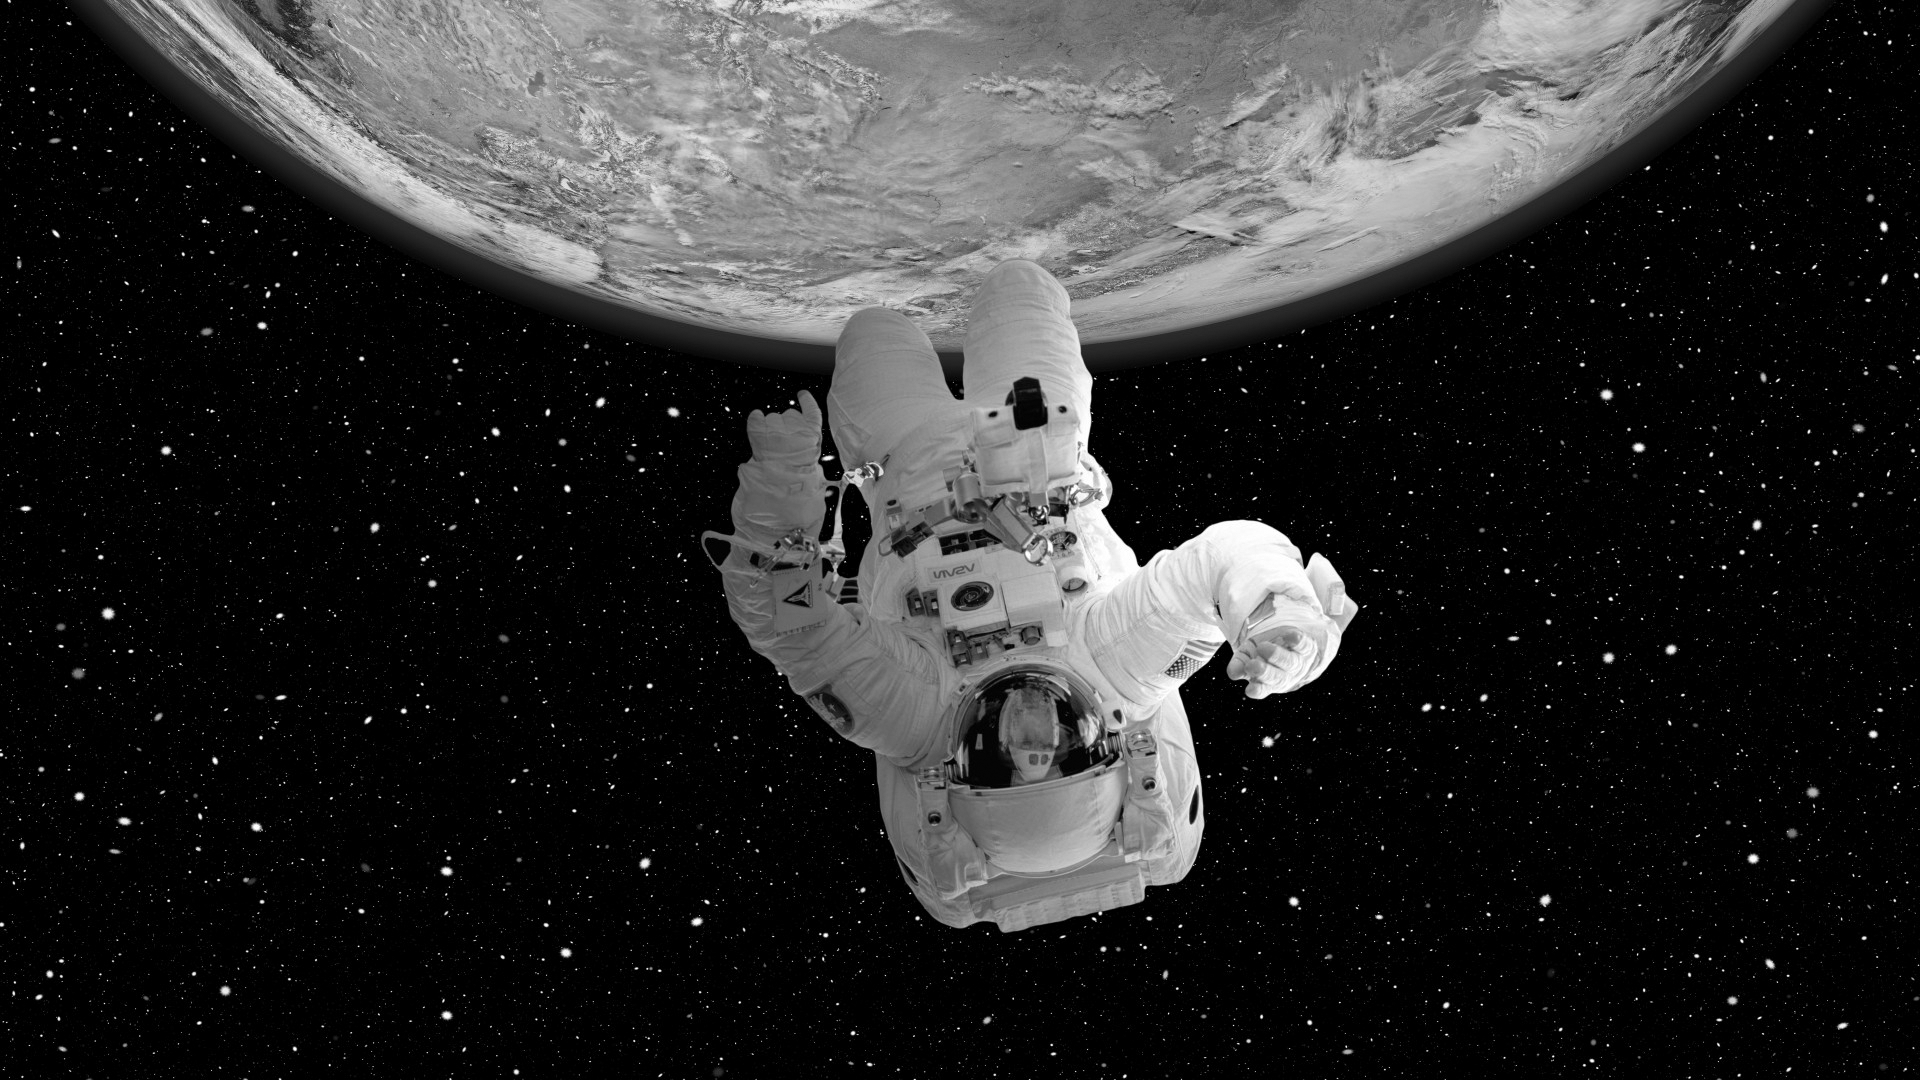
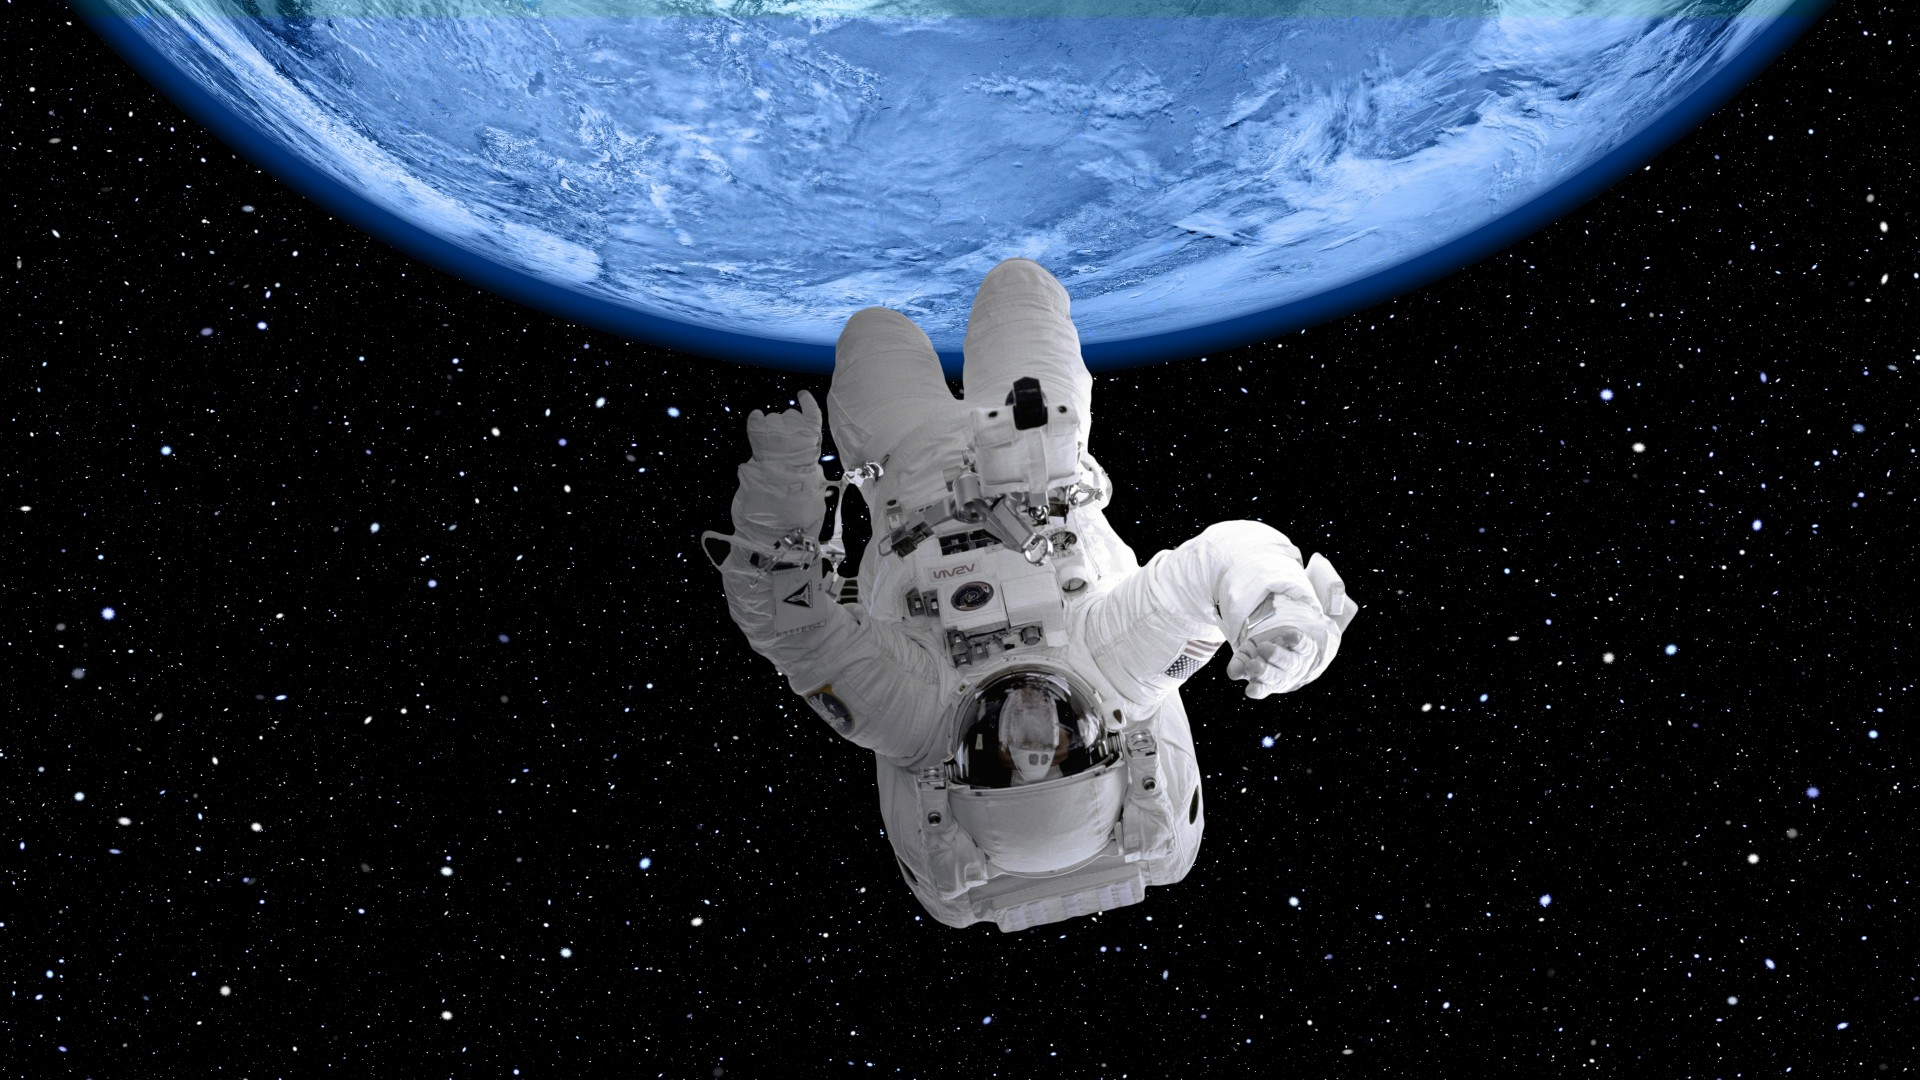
added in code to use numba, but currently it doens't work; some unsupported numpy feature

Changed region(s): [[0.0312, 0.0, 0.9688, 0.3667]]

diff --git a/apply_filter.py b/apply_filter.py
@@ -3,10 +3,12 @@ import sys
 import cv2
 import numpy as np
 from scipy import interpolate
+from numba import jit
 
 NUM_ARGS = 4
 
 # Main entry point for script.
+# @jit
 def main():
     if len(sys.argv) < NUM_ARGS - 1:
       print("usage: python3 apply_filter.py <filter file> <image> <image to write to>")
@@ -18,25 +20,32 @@ def main():
         # Load the filter.
         filter = pickle.load(f)
         # Load the old image.
-        image_old = cv2.imread(image_file, cv2.IMREAD_GRAYSCALE)
+        image_old = cv2.imread(image_file)
+        # Split into color channels.
+        old_channels = [image_old[:,:,c] for c in range(3)]
         # Create the new image.
         image_new = np.ones(image_old.shape, dtype="uint8") * 255
 
-        # Create the interpolator. Here, the x coordinates
+        # Create the interpolators. Here, the x coordinates
         # are a range from 0-width, the y coordinates are from
         # 0-height, and the z values are specified by the old image.
+        # Why create a separate interpolator for each color?
+        # Because scipy's 2d interpolate function does not allow
+        # for interpolation of vector fields.
         width = image_old.shape[1]
         height = image_old.shape[0]
-        f = interpolate.RectBivariateSpline(np.arange(height),
-                                np.arange(width),
-                                image_old)
+        f = [interpolate.RectBivariateSpline(np.arange(height),
+                                np.arange(width), old_channels[c])
+                                for c in range(3)]
 
         # Now, we can use the interpolator together with the filter
         # lookup table to apply the filter and create the new image.
         for i in range(height):
             for j in range(width):
-                image_new[i, j] = f(filter[0, i * width + j],
-                                filter[1, i * width + j])
+                for c in range(3):
+                    image_new[i, j, c] = f[c](filter[0, i * width + j],
+                                    filter[1, i * width + j])
+
         cv2.imwrite(to_write_to, image_new)
 
 # Run main.
